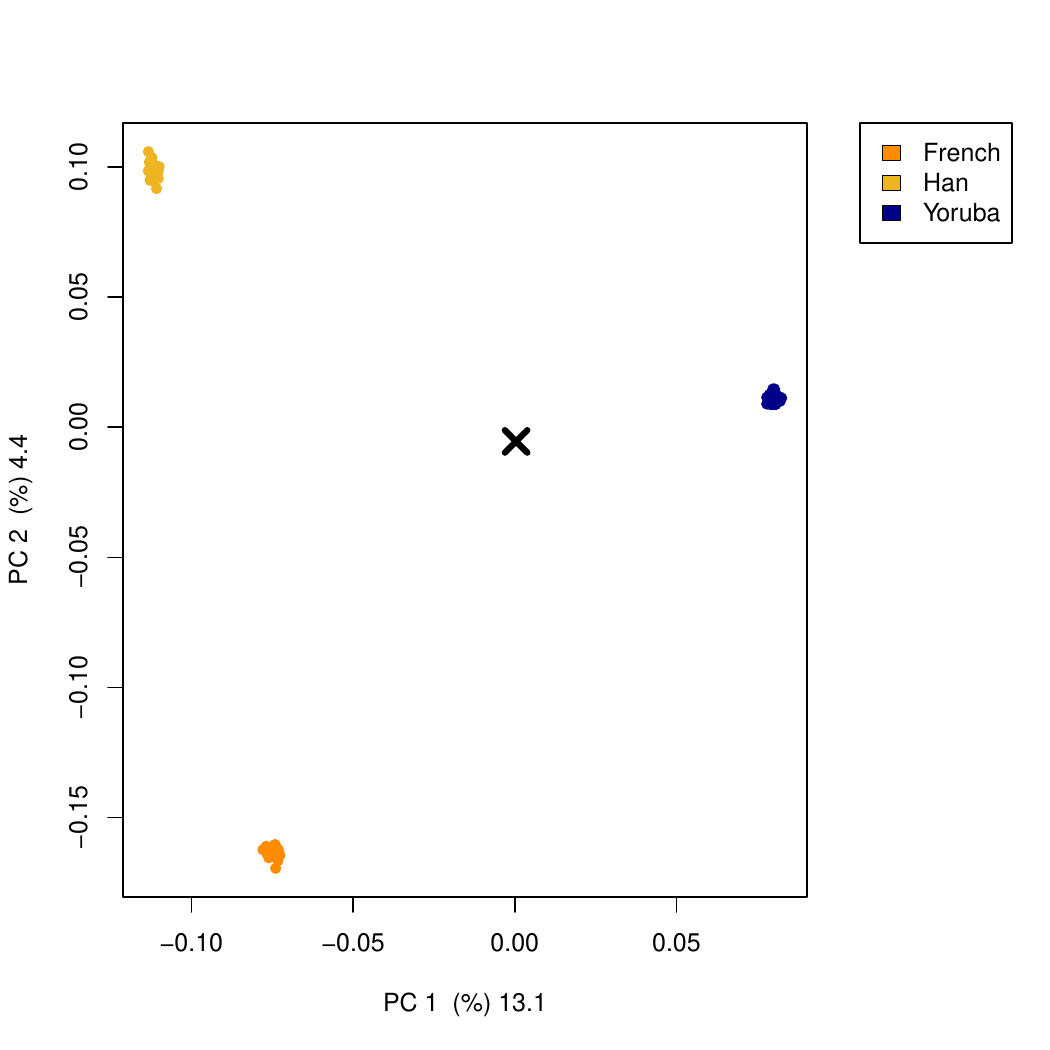
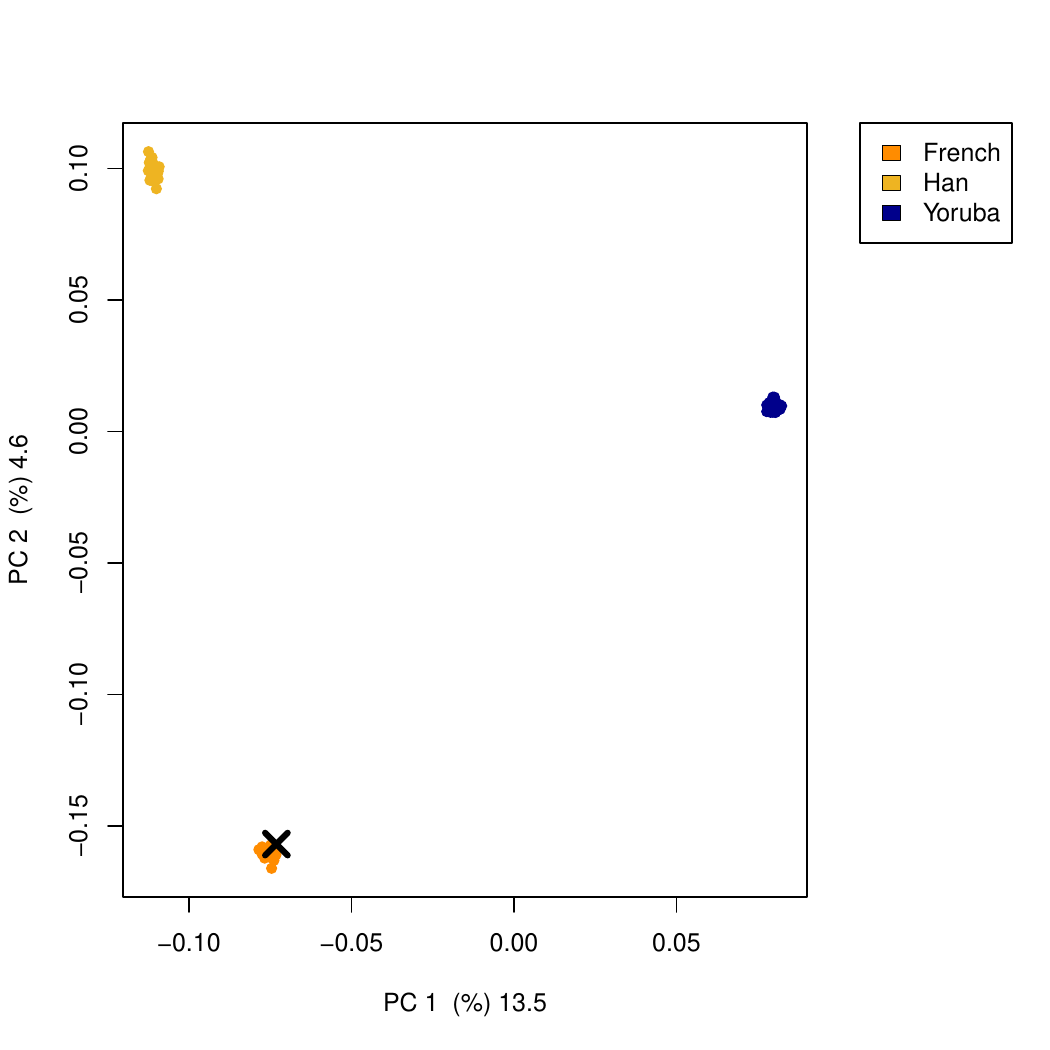
Fix PLINK PCA projection and update tutorial outputs

diff --git a/EXAMPLE_DATA_TUTORIAL.md b/EXAMPLE_DATA_TUTORIAL.md
@@ -19,11 +19,31 @@ From the repository root:
 make
 ```
 
+<details>
+<summary>Example output</summary>
+
+```text
+g++ src/fastNGSadmix.cpp src/readplinkV3.cpp -O3 -lz -o fastNGSadmix
+```
+
+</details>
+
 If you want to run the PCA examples, install the R package used by the scripts:
 
 ```r
 install.packages("BEDMatrix")
 ```
+
+<details>
+<summary>Example output</summary>
+
+```text
+Installing package into "/path/to/R/library"
+...
+* DONE (BEDMatrix)
+```
+
+</details>
 
 ## 2. Download the example archives into `data/`
 
@@ -36,6 +56,22 @@ wget -P data https://www.popgen.dk/software/download/fastNGSadmix/example.tar.gz
 tar -xzf data/data.tar.gz
 tar -xzf data/example.tar.gz
 ```
+
+<details>
+<summary>Example output</summary>
+
+```text
+data/data.tar.gz
+data/example.tar.gz
+data/refPanel_humanOrigins_7worldPops.txt
+data/nInd_humanOrigins_7worldPops.txt
+example/yriFrenchHan_depth05.beagle.gz
+example/NA20502_TSI.bed
+example/NA20502_TSI.bim
+example/NA20502_TSI.fam
+```
+
+</details>
 
 The downloaded archives are stored in `data/`, while unpacking from the
 repository root creates the working directories `data/` and `example/`.
@@ -51,11 +87,36 @@ REF=data/refPanel_humanOrigins_7worldPops.txt
 NIND=data/nInd_humanOrigins_7worldPops.txt
 ```
 
+<details>
+<summary>Example output</summary>
+
+```text
+(no terminal output)
+```
+
+</details>
+
 Estimate admixture proportions:
 
 ```bash
 ./fastNGSadmix -likes "$GL" -fname "$REF" -Nname "$NIND" -out results/yriFrenchHan_depth05 -whichPops French,Han,Yoruba
 ```
+
+<details>
+<summary>Example output</summary>
+
+```text
+-> Dumping file: results/yriFrenchHan_depth05.log
+Input: -likes example/yriFrenchHan_depth05.beagle.gz -plink (null) -Nname data/nInd_humanOrigins_7worldPops.txt -fname data/refPanel_humanOrigins_7worldPops.txt -out results/yriFrenchHan_depth05 -whichPops French,Han,Yoruba
+Overlap: of 95913 sites between input and ref
+Chosen pop French
+Chosen pop Han
+Chosen pop Yoruba
+Estimated  Q = 0.695856 0.235121 0.069023 best like -97538.374384 after 0 runs!
+-> Dumping file: results/yriFrenchHan_depth05.qopt
+```
+
+</details>
 
 This writes:
 
@@ -67,6 +128,26 @@ Run PCA using the estimated admixture proportions:
 ```bash
 Rscript R/fastNGSadmixPCA.R -likes "$GL" -qopt results/yriFrenchHan_depth05.qopt -out results/yriFrenchHan_depth05 -ref data/humanOrigins_7worldPops
 ```
+
+<details>
+<summary>Example output</summary>
+
+```text
+Reference populations used: French, Han, Yoruba
+Calculating covarinace matrix for reference individuals
+Calculating covarinace matrix for input individual
+Input individual ('SAMPLE') is plotted at in PCA plot:
+-0.0564757832664593 -0.0896450779920364
+Output files:
+ - results/yriFrenchHan_depth05_covar.txt
+ - results/yriFrenchHan_depth05_indi.txt
+ - results/yriFrenchHan_depth05_eigenvecs.txt
+ - results/yriFrenchHan_depth05_eigenvals.txt
+ - results/yriFrenchHan_depth05_admixBarplot.png
+ - results/yriFrenchHan_depth05_PCAplot.pdf
+```
+
+</details>
 
 Generated example outputs from the BEDMatrix-backed test run in this repo:
 
@@ -88,11 +169,36 @@ Set the PLINK input prefix:
 PLINKFILE=example/NA20502_TSI
 ```
 
+<details>
+<summary>Example output</summary>
+
+```text
+(no terminal output)
+```
+
+</details>
+
 Estimate admixture proportions:
 
 ```bash
 ./fastNGSadmix -plink "$PLINKFILE" -fname "$REF" -Nname "$NIND" -out results/NA20502_TSI -whichPops French,Han,Yoruba
 ```
+
+<details>
+<summary>Example output</summary>
+
+```text
+-> Dumping file: results/NA20502_TSI.log
+Input: -likes (null) -plink example/NA20502_TSI -Nname data/nInd_humanOrigins_7worldPops.txt -fname data/refPanel_humanOrigins_7worldPops.txt -out results/NA20502_TSI -whichPops French,Han,Yoruba
+Overlap: of 441695 sites between input and ref
+Chosen pop French
+Chosen pop Han
+Chosen pop Yoruba
+Estimated  Q = 0.999980 0.000010 0.000010 best like -304267.935981 after 0 runs!
+-> Dumping file: results/NA20502_TSI.qopt
+```
+
+</details>
 
 This writes:
 
@@ -104,6 +210,26 @@ Run PCA:
 ```bash
 Rscript R/fastNGSadmixPCA.R -plinkFile "$PLINKFILE" -qopt results/NA20502_TSI.qopt -out results/NA20502_TSI -ref data/humanOrigins_7worldPops
 ```
+
+<details>
+<summary>Example output</summary>
+
+```text
+Reference populations used: French, Han, Yoruba
+Calculating covarinace matrix for reference individuals
+Calculating covarinace matrix for input individual
+Input individual ('SAMPLE') is plotted at in PCA plot:
+-0.073125439191265 -0.15687235137774
+Output files:
+ - results/NA20502_TSI_covar.txt
+ - results/NA20502_TSI_indi.txt
+ - results/NA20502_TSI_eigenvecs.txt
+ - results/NA20502_TSI_eigenvals.txt
+ - results/NA20502_TSI_admixBarplot.png
+ - results/NA20502_TSI_PCAplot.pdf
+```
+
+</details>
 
 Generated example outputs from the BEDMatrix-backed test run in this repo:
 
@@ -127,6 +253,20 @@ run that workflow:
 wget -P data https://www.popgen.dk/software/download/fastNGSadmix/data1000genomes.tar.gz
 tar -xzf data/data1000genomes.tar.gz
 ```
+
+<details>
+<summary>Example output</summary>
+
+```text
+data/data1000genomes.tar.gz
+data1000genomes/refPanel_1000genomesRefPanel.txt
+data1000genomes/nInd_1000genomesRefPanel.txt
+data1000genomes/1000genomesRefPanel.bed
+data1000genomes/1000genomesRefPanel.bim
+data1000genomes/1000genomesRefPanel.fam
+```
+
+</details>
 
 The website quick start uses:
 